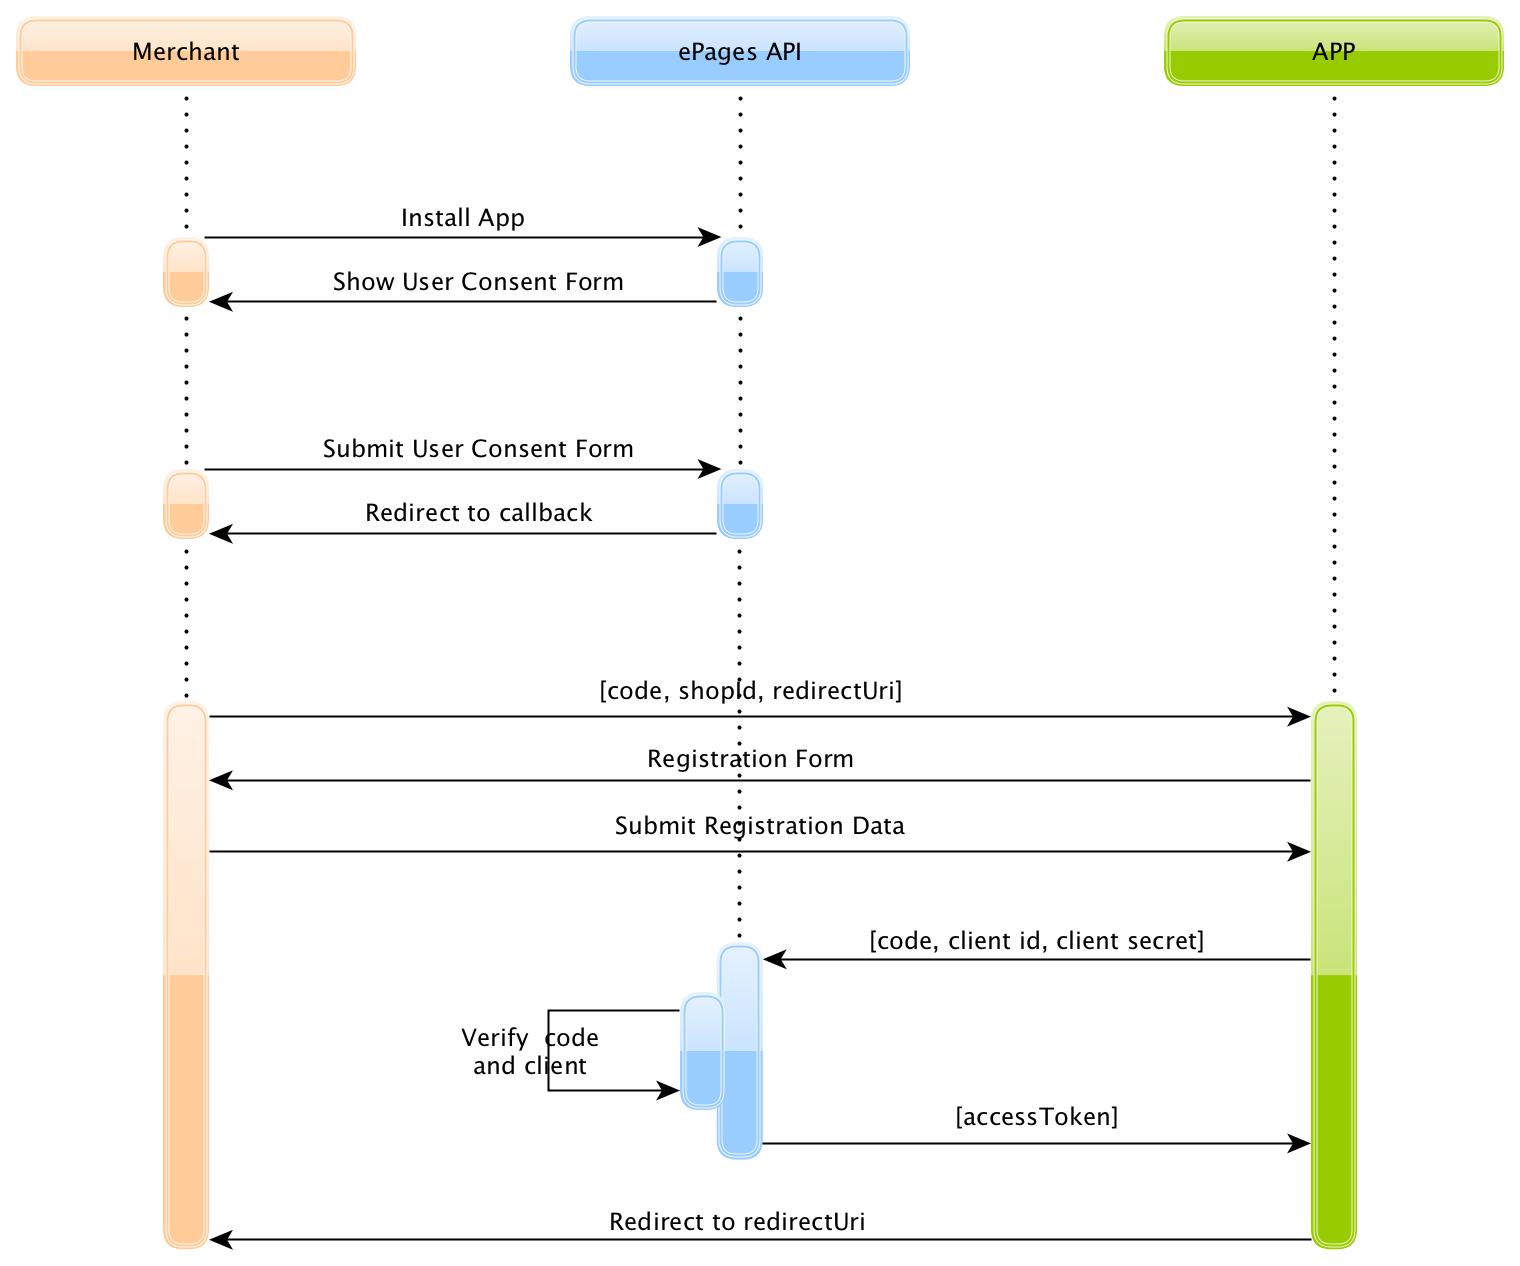
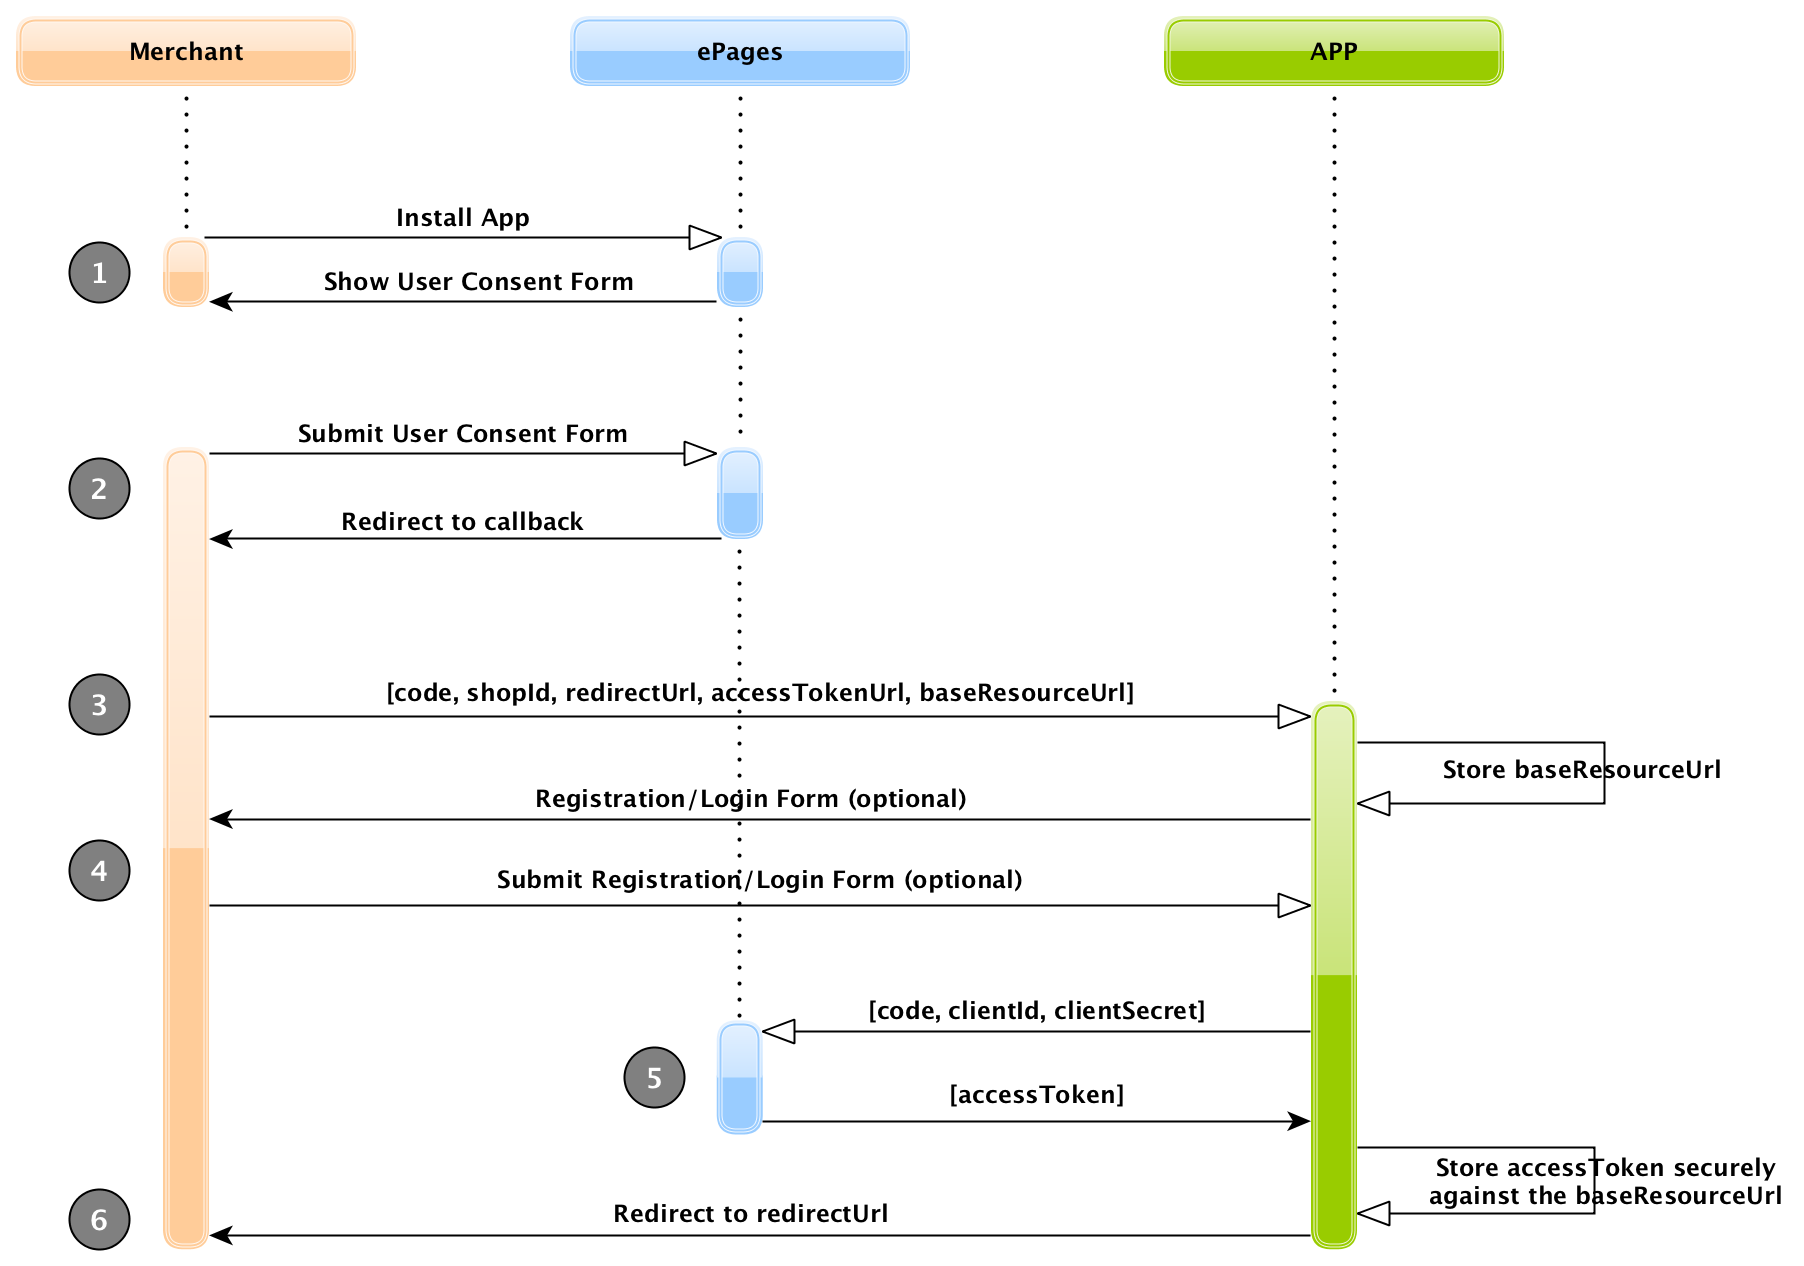
Expand oauth section refers to AD-191

diff --git a/pages/apps/oauth.md b/pages/apps/oauth.md
@@ -4,12 +4,11 @@ key: apps-oauth
 title: OAuth 2.0
 ---
 
-Your app cannot read ePages data without authenticating first. In order to access to the resources of the REST API, your application must get permission.
-In this section we will help you through this authorisation process.
+Your app cannot access ePages data without getting authorisation from the merchant first. In this section we will help you through this authorisation process.
 
 # Credentials
 
-You already retrieved a `client id` and a `client secret` that are known to both ePages and your application. Visit [get your credentials](page:apps-develop-app#get-your-credentials). Your app uses these credentials for identification during the authorisation process.
+You already retrieved a `clientId` and a `clientSecret` that are known to both ePages and your application. If not, visit [get your credentials](page:apps-develop-app#get-your-credentials). Your app uses these credentials for identification during the authorisation process.
 
 # Terminology
 
@@ -17,9 +16,9 @@ Before jumping into the authorisation process, let's look at some terms that wil
 
 | Name              | Description                                                                                             |
 |--------------------|---------------------------------------------------------------------------------------------------------|
-| **Merchant** | A shop owner giving permission to an **App** to access his shop's data through the REST API. Within the OAuth 2.0. protocol this is referred to as `resource owner`. |
-| **ePages&nbsp;API** | The ePages REST API. This is where the **App** can view and modify a shop's data. Within the OAuth 2.0. protocol this is referred to as `service provider`.|
-| **App**      | An application that would like to access a shop's data. The **Merchant** must grant permission before the **App** can access any data. Within the OAuth 2.0. protocol this is referred to as `client`. |
+| **Merchant** | A shop owner giving permission to an **App** to access his shop's data through the REST API. Within the OAuth 2.0 protocol this is referred to as **resource owner**. |
+| **ePages** | This is where the **App** can view and modify a shop's data by accessing the REST API. Within the OAuth 2.0 protocol this is referred to as **service provider**.|
+| **App**      | An application that would like to access a shop's data. The **Merchant** must grant permission before the **App** can access any data. Within the OAuth 2.0 protocol this is referred to as **client**. |
 
 # Authorisation process
 
@@ -27,43 +26,52 @@ Before jumping into the authorisation process, let's look at some terms that wil
 OAuth 2.0 process
 {% endimage %}
 
-## Ask for permission
+## 1. Ask for permission
 
-The merchant will be asked whether he wants to grant the permissions that your app is requesting. This is called **user consent**. During the app development, you have to define roles for that. Currently, the only role that is supported is **Read Products**. ePages displays the user consent as a consent page:
+The merchant decided to install your app. Great! He will then be asked whether he wants to grant the permissions that your app is requesting. While submitting the app, you have to define a **scope** for that. Currently, the only supported scope is *Read Products*. ePages displays the user consent form to the merchant as follows:
 
 {% image asking-for-permission.png %}
 Consent page
 {% endimage %}
 
-## Confirm the installation
+## 2. Confirm the installation
 
-a) The merchant agrees the consent form by clicking the button **Install** on the consent page.  Your application is returned a `code` as a query string as well as the `shopId` and a `redirectUri` that your app can use to obtain an `accessToken`.
+The merchant agrees and submits the consent form by clicking the button **Install** on the consent page.
+He will then be redirected to your **Application Callback URL**.
+
+## 3. Receive authorisation code
+
+Once your app has been authorised by the merchant, it is returned a `code` as well as a `shopId`, `redirectUrl`, `accessTokenUrl` and `baseResourceUrl` as query parameters on your **Application Callback Url**. Your app can use the `code` in combination with your `clientId` and `clientSecret` for obtaining an `accessToken`.
 
 Example:
+
+/GET ...
 
 {% highlight text %}
 code: MLaORzWY3SP0BJacq3ULaxcWEt8XxzWX
 shopId: DemoShop
-redirectUri: http://merchant/epages/DemoShop.admin/?ObjectID=17581&ViewAction=MBO-ViewAppDetails&appID=54f46
+redirectUrl: http://merchant/epages/DemoShop.admin/?ObjectID=17581&ViewAction=MBO
+accessTokenRequestUrl: https://oauth.epages.com/oauth/get_access_token
+resourceAccessUrl: https://
 {% endhighlight %}
 
-b) If the merchant does not grant permission and clicks the button **Cancel** instead, this leads back to the previous page, i.e. the app detail page.
+## 4. Registration (optional)
 
-## Registration (optional)
+If your app requires a registration process, this optional call can be included before obtaining the `accessToken`. During this call, the app would display the registration or login form to the merchant.
 
-If your app requires a registration, this registration process can be included right now.
+## 5. Send request for access token
 
-## Send request for access token
-
-After your app has obtained the `code` and a possible registration, you can send a request for an access token. This is done by a HTTPS `POST` request to the API in JSON format including the following parameters:
+To request an `accessToken` make a HTTPS `POST` request to the API in JSON format including the following parameters:
 
 | Field              | Description                                                                                             |
 |--------------------|---------------------------------------------------------------------------------------------------------|
-| `code`      | The code provided in the redirectUri ([see above](page:apps-oauth#confirm-the-installation)).     |
-| `client id`   | The API key for the app (see the [get your credentials](page:apps-develop-app#get-your-credentials) section).|
-| `client secret`    | The shared secret for the app (see the [get your credentials](page:apps-develop-app#get-your-credentials) section). |
+| `code`      | The code provided in the `redirectUrl` ([see above](page:apps-oauth#confirm-the-installation)).     |
+| `clientId`   | The client key for the app (see the [get your credentials](page:apps-develop-app#get-your-credentials) section).|
+| `clientSecret`    | The shared client secret for the app (see the [get your credentials](page:apps-develop-app#get-your-credentials) section). |
 
 Example:
+
+HTTP POST ...
 
 {% highlight text %}
 POST ///AccessTokenRequestURL HTTP/1.1
@@ -81,7 +89,7 @@ A successful response to this request contains the following:
 |--------------------|---------------------------------------------------------------------------------------------------------|
 | `accessToken`      | The token that can be sent to the ePages API.     |
 
-A JSON array is returned with HTTP response code 201 and an `accessToken`, similar to the following:
+A JSON object is returned with HTTP response code 201 and an `accessToken`, similar to the following:
 
 {% highlight text %}
 HTTP/1.1 201 Created
@@ -94,15 +102,21 @@ X-epages-Media-Type: application/vnd.epages.v1+json
 }
 {% endhighlight %}
 
-This is a permanent access token that can be used to access the shop's data as long as the app is installed in the merchant's shop.
+This is a permanent `accessToken` that can be used to access the shop's data as long as the app is installed in the merchant's shop. This `accessToken` allows your application to act on behalf of the merchant on this specific shop.
 
 {% callout danger Secret stuff! %}
-With this `accessToken` you make authenticated requests to the shop's data. Store the `accessToken` safely and DO NOT share it with anyone!
+With this `accessToken` you make authenticated requests to the shop's data. Store the `accessToken` securely against the `baseResourceUrl`. DO NOT share the `accessToken` with anyone!
 {% endcallout %}
 
-## Receive resource access
+## 6. Redirect the merchant
 
-After the access token has been returned, make a HTTPS `GET` request to receive the `ResourceAccessURL`.
+Once the authorisation process is complete, the app has to send the merchant back to the `redirectUrl` the app received [before](page:apps-oauth#receive-authorisation-code).
+
+## Use access token to access API
+
+With the `accessToken` received, make a HTTPS `GET` request to obtain the `baseResourceUrl`.
+
+GET/....
 
 A successful response to this request could look like this.
 

diff --git a/pages/apps/developing-an-app.md b/pages/apps/developing-an-app.md
@@ -8,7 +8,7 @@ title: Developing an app
 
 Once you have your test shop in place, you have to create an app to get the `clientID` and `clientSecret` values.
 The `clientID` is the unique identifier for your app. You will have to use it for all requests to the API.
-The `clientSecret` is just shared between your app and ePages. You have to pass the `clientSecret` once during the [authorisation process](page:apps-oauth#authorisation process). Your app uses this value to verify the signature.
+The `clientSecret` is just shared between your app and ePages. You have to pass the `clientSecret` once during the [authorisation process](page:apps-oauth#authorisation-process). Your app uses this value to verify the signature.
 
 ## Get your credentials
 
